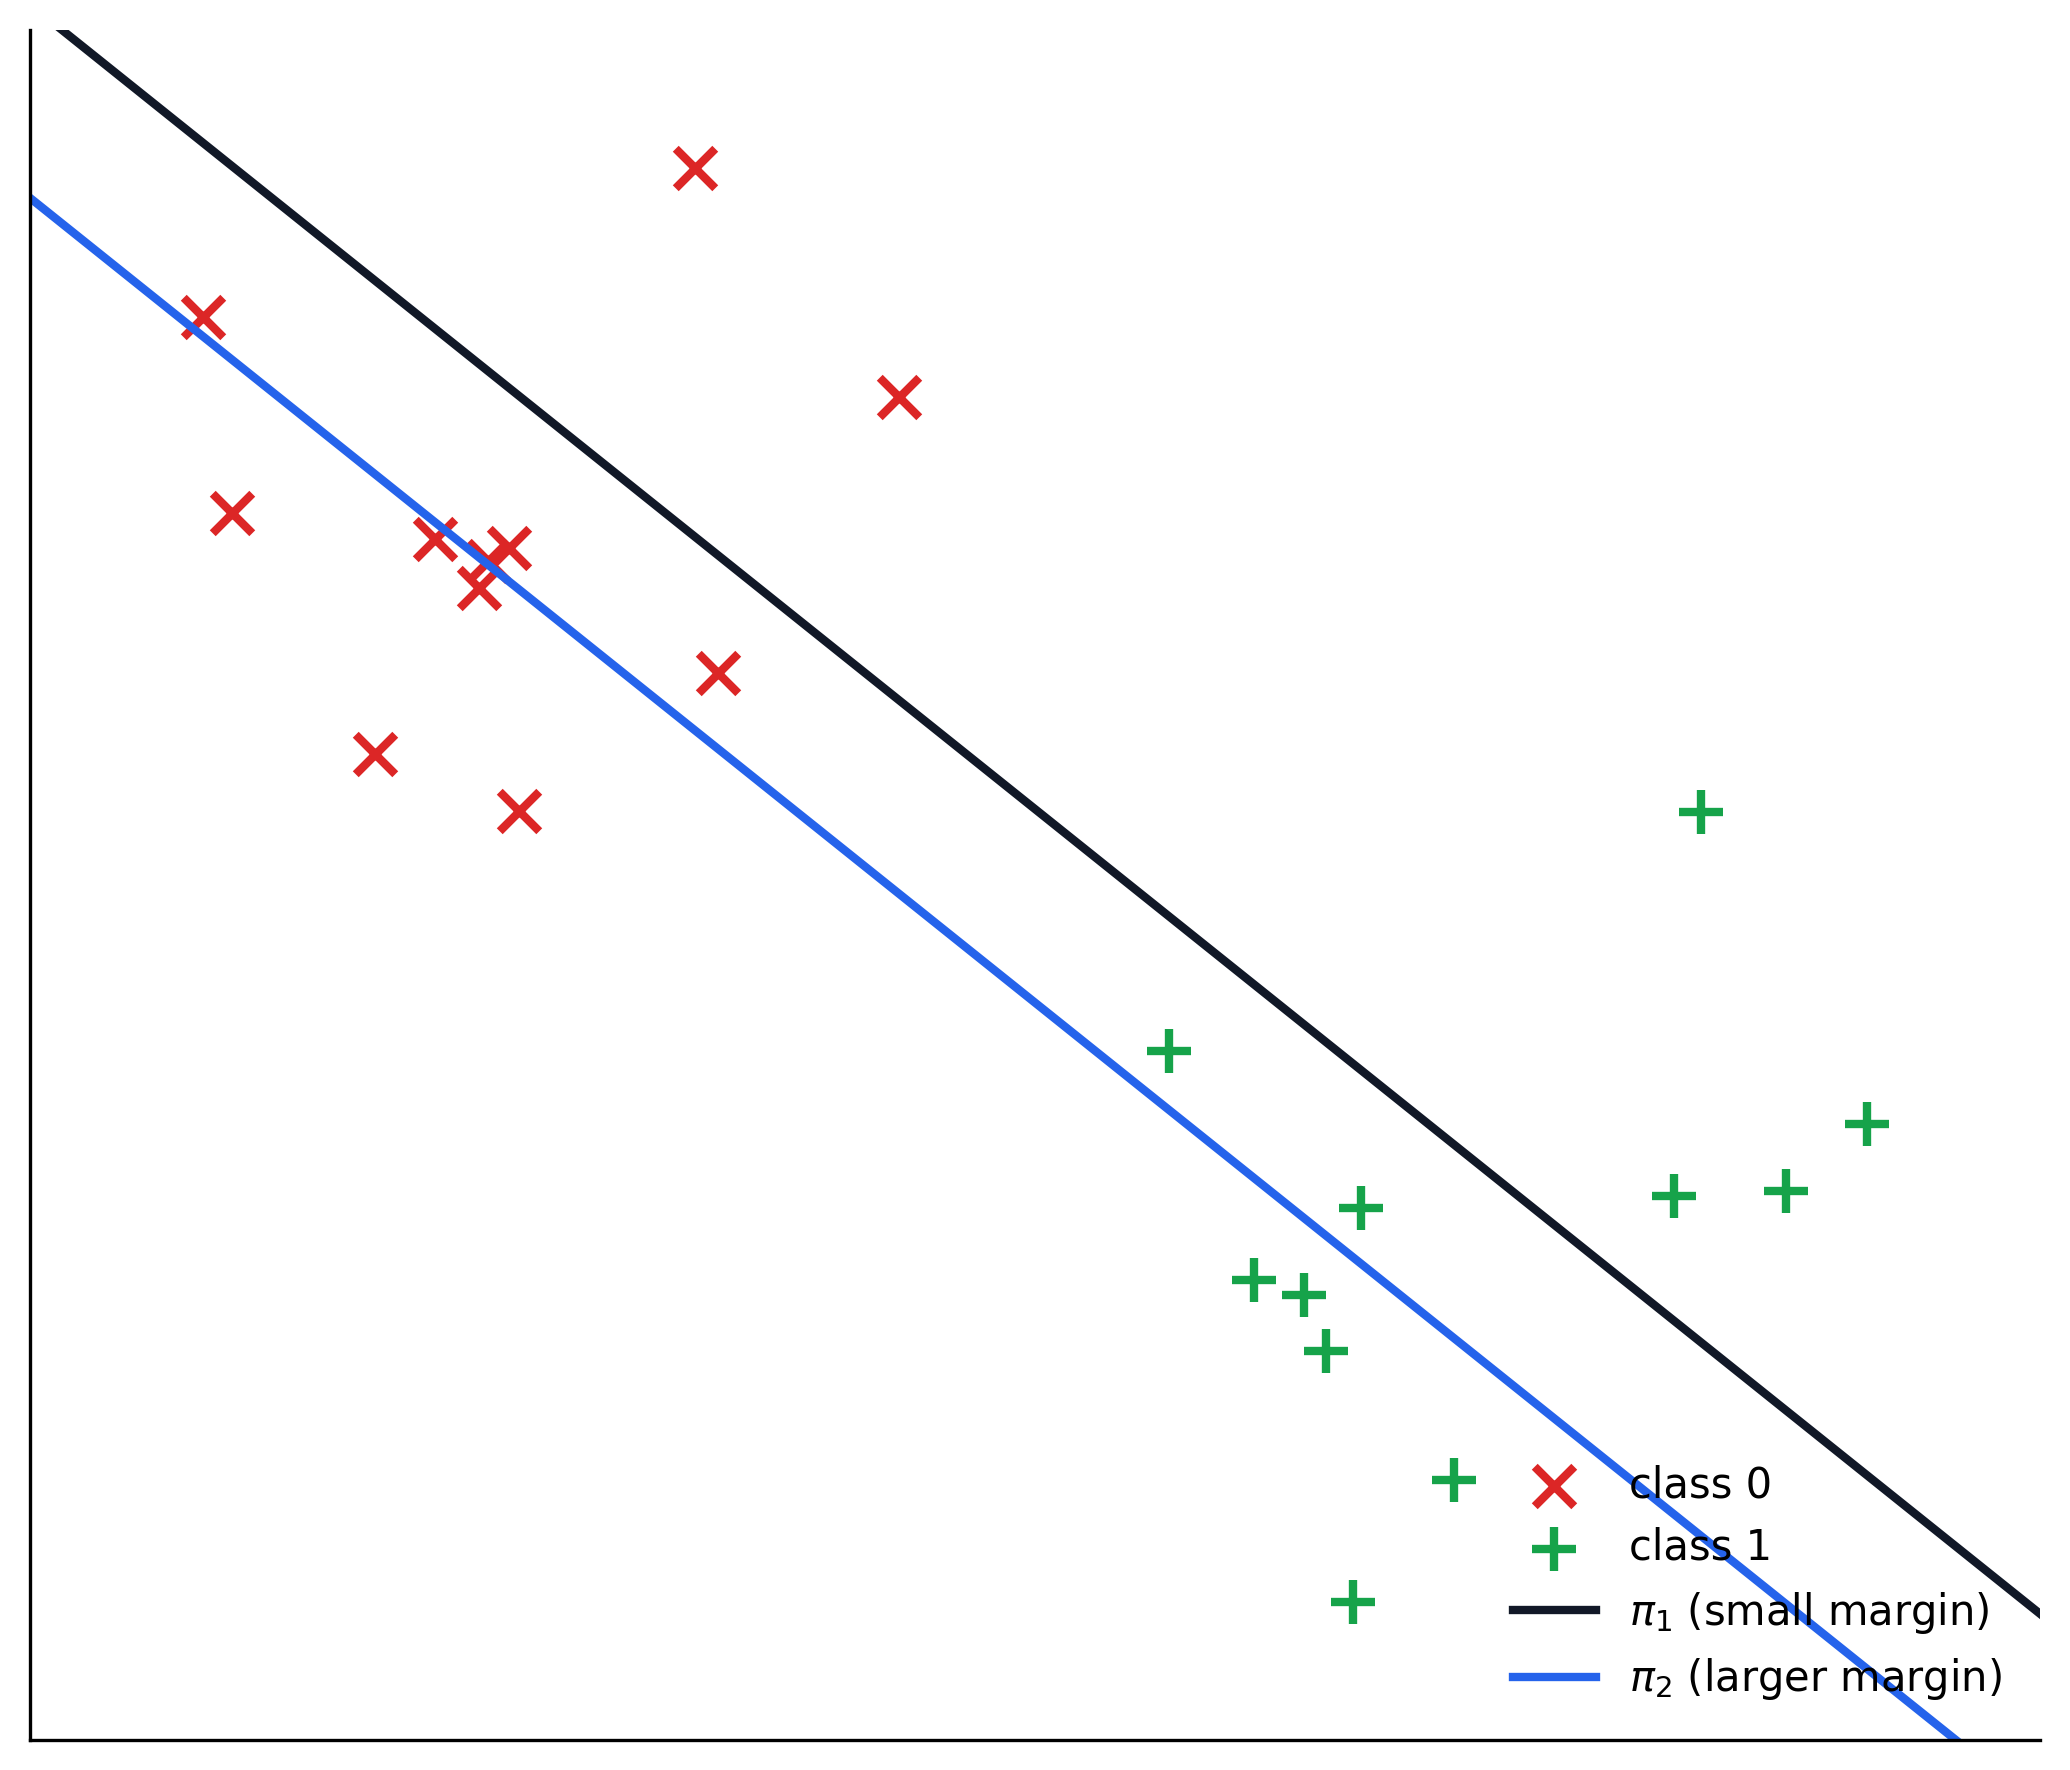
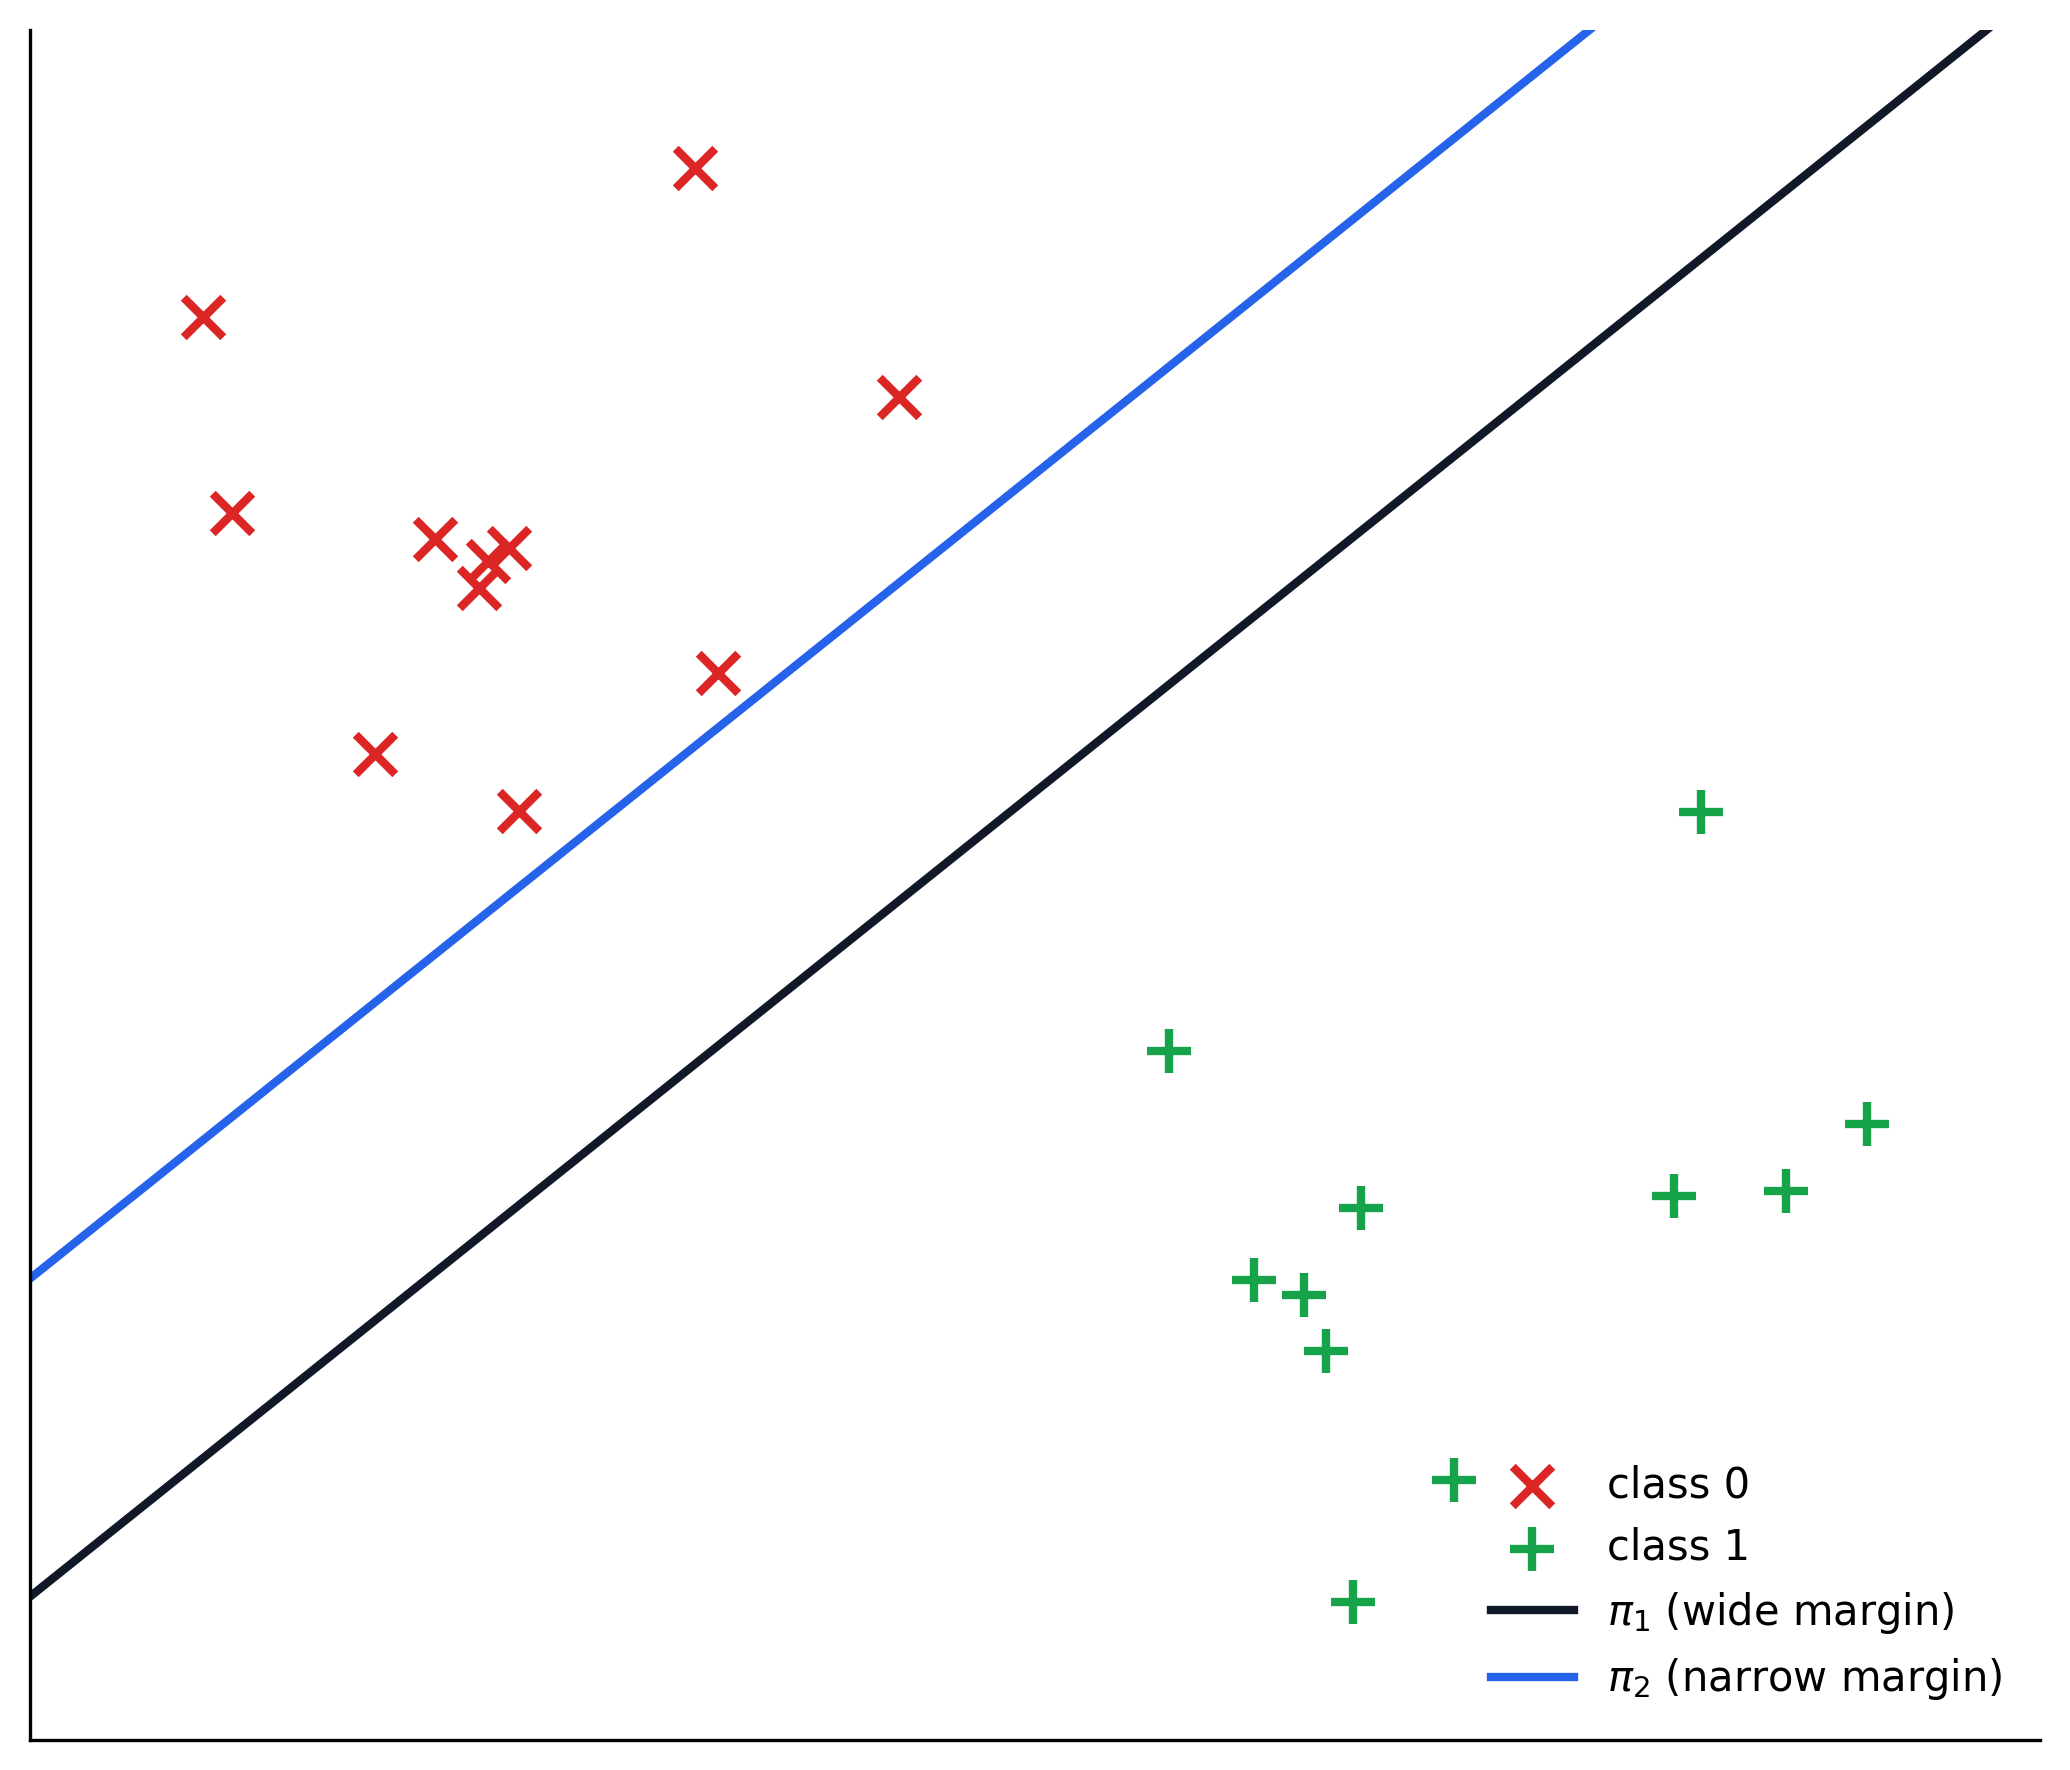
Ch.32: fix pi1/pi2 to match the video, add 3D margin-slab visual
Claude-Session: https://claude.ai/code/session_01GiY4RoBfeyCBPCCAvAFaVF

diff --git a/src/components/SvmMarginSlab3d.tsx b/src/components/SvmMarginSlab3d.tsx
@@ -1,0 +1,144 @@
+'use client';
+
+import { useEffect, useState } from 'react';
+import dynamic from 'next/dynamic';
+
+const Plot = dynamic(
+  () =>
+    Promise.all([import('react-plotly.js/factory'), import('plotly.js-dist-min')]).then(
+      ([{ default: createPlotlyComponent }, { default: Plotly }]) => createPlotlyComponent(Plotly)
+    ),
+  { ssr: false }
+);
+
+type Data = {
+  x: number[];
+  y: number[];
+  z: number[][];
+  margin_width: number;
+  points: { x: number[]; y: number[]; z: number[]; label: number[]; support: number[] };
+};
+
+const MOBILE_BREAKPOINT = 768;
+
+export default function SvmMarginSlab3d() {
+  const [isDesktop, setIsDesktop] = useState<boolean | null>(null);
+  const [isDark, setIsDark] = useState(false);
+  const [data, setData] = useState<Data | null>(null);
+
+  useEffect(() => {
+    const check = () => setIsDesktop(window.innerWidth >= MOBILE_BREAKPOINT);
+    check();
+    window.addEventListener('resize', check);
+    setIsDark(document.documentElement.classList.contains('dark'));
+    return () => window.removeEventListener('resize', check);
+  }, []);
+
+  useEffect(() => {
+    if (!isDesktop) return;
+    fetch('/data/ch32-svm-margin-3d.json')
+      .then((res) => res.json())
+      .then(setData);
+  }, [isDesktop]);
+
+  if (isDesktop === null) {
+    return <div className="h-32 w-full my-8" />;
+  }
+
+  if (!isDesktop) {
+    return (
+      <div className="not-prose my-8 rounded-2xl border border-black/5 dark:border-white/5 bg-black/[0.02] dark:bg-white/[0.02] p-6 text-center text-sm text-[var(--text-secondary)]">
+        This 3D visualization is disabled on smaller screens to keep the page fast. Move to a bigger screen (tablet or desktop) to see it.
+      </div>
+    );
+  }
+
+  if (!data) {
+    return <div className="animate-pulse h-[460px] w-full bg-black/5 dark:bg-white/5 rounded-2xl my-8" />;
+  }
+
+  const flat = (level: number, color: string, op: number) => ({
+    x: data.x,
+    y: data.y,
+    z: data.z.map((row) => row.map(() => level)),
+    type: 'surface' as const,
+    colorscale: [
+      [0, color],
+      [1, color],
+    ] as const,
+    opacity: op,
+    showscale: false,
+  });
+
+  const score = {
+    x: data.x,
+    y: data.y,
+    z: data.z,
+    type: 'surface' as const,
+    colorscale: [
+      [0, '#e6194b'],
+      [0.5, '#d9d9d9'],
+      [1, '#3cb44b'],
+    ] as const,
+    cmid: 0,
+    opacity: 0.9,
+    showscale: false,
+  };
+
+  const pick = (fn: (i: number) => boolean) => ({
+    x: data.points.x.filter((_, i) => fn(i)),
+    y: data.points.y.filter((_, i) => fn(i)),
+    z: data.points.z.filter((_, i) => fn(i)),
+  });
+
+  const regular = (cls: number, color: string) => {
+    const p = pick((i) => data.points.label[i] === cls && data.points.support[i] === 0);
+    return {
+      ...p,
+      mode: 'markers' as const,
+      type: 'scatter3d' as const,
+      marker: { size: 3, color, opacity: 0.85 },
+      name: cls === 1 ? 'class 1' : 'class 0',
+    };
+  };
+
+  const svs = pick((i) => data.points.support[i] === 1);
+  const supportTrace = {
+    ...svs,
+    mode: 'markers' as const,
+    type: 'scatter3d' as const,
+    marker: { size: 6, color: '#f59e0b', symbol: 'diamond' as const, line: { color: isDark ? '#fff' : '#000', width: 1 } },
+    name: 'support vectors',
+  };
+
+  return (
+    <div className="not-prose my-8">
+      <div className="rounded-2xl border border-black/5 dark:border-white/5 bg-white dark:bg-black/20 overflow-hidden">
+        <Plot
+          data={[flat(0, '#9ca3af', 0.15), flat(1, '#3cb44b', 0.12), flat(-1, '#e6194b', 0.12), score, regular(1, '#3cb44b'), regular(0, '#e6194b'), supportTrace]}
+          layout={{
+            autosize: true,
+            height: 460,
+            margin: { l: 0, r: 0, t: 10, b: 0 },
+            scene: {
+              xaxis: { title: { text: 'x₁' } },
+              yaxis: { title: { text: 'x₂' } },
+              zaxis: { title: { text: 'score  wᵀx + b' } },
+              camera: { eye: { x: 2.0, y: -2.0, z: 0.7 } },
+              aspectratio: { x: 1.3, y: 1.3, z: 0.7 },
+            },
+            showlegend: false,
+            paper_bgcolor: 'rgba(0,0,0,0)',
+            font: { color: isDark ? '#e5e5e5' : '#171717' },
+          }}
+          config={{ responsive: true, displaylogo: false }}
+          style={{ width: '100%' }}
+          useResizeHandler
+        />
+      </div>
+      <p className="text-center text-xs text-[var(--text-secondary)] mt-3">
+        The score <code>wᵀx + b</code> is a tilted plane; the boundary is where it meets the grey <code>score = 0</code> sheet, and the two faint sheets at <code>score = +1</code> and <code>score = -1</code> are the margin edges. Every point sits at its own score height. The support vectors (amber) are exactly the points resting on the <code>±1</code> sheets, and SVM tilts the plane to make the gap between those sheets, here {data.margin_width.toFixed(2)} wide, as large as possible.
+      </p>
+    </div>
+  );
+}

diff --git a/src/app/[series]/[slug]/page.tsx b/src/app/[series]/[slug]/page.tsx
@@ -53,6 +53,7 @@ import SoftmaxSurfaces3d from '../../../components/SoftmaxSurfaces3d';
 import PolyLogisticScoreSurface3d from '../../../components/PolyLogisticScoreSurface3d';
 import CProbabilitySurface3d from '../../../components/CProbabilitySurface3d';
 import KnnNeighbors3d from '../../../components/KnnNeighbors3d';
+import SvmMarginSlab3d from '../../../components/SvmMarginSlab3d';
 import RidgeLambdaExplorer from '../../../components/RidgeLambdaExplorer';
 import DecisionTreeHyperparameterExplorer from '../../../components/DecisionTreeHyperparameterExplorer';
 import RegressionTreeExplorer from '../../../components/RegressionTreeExplorer';
@@ -209,6 +210,7 @@ export default async function PostPage({
             PolyLogisticScoreSurface3d,
             CProbabilitySurface3d,
             KnnNeighbors3d,
+            SvmMarginSlab3d,
             RidgeLambdaExplorer,
             DecisionTreeHyperparameterExplorer,
             RegressionTreeExplorer,

diff --git a/scripts/gen_ch32_svm_margin.py b/scripts/gen_ch32_svm_margin.py
@@ -1,11 +1,11 @@
 """Generate the margin-comparison and max-margin-hyperplane charts for Ch.32.
 
-No usable transcript/notebook existed for this video (the auto-transcript was
-too corrupted to use); the post is instead based on the user's own notes plus
-a whiteboard screenshot from the video. This script builds a real, from-first-
-principles illustration of the same concept the whiteboard sketch showed: two
-arbitrary separating lines with different margins, then the actual maximum-
-margin hyperplane found by fitting a linear SVM.
+There is no CampusX companion notebook for this SVM-intuition video; the video
+is a whiteboard geometry walkthrough. This script builds a real, from-first-
+principles illustration of the same concept: two arbitrary separating lines
+with different margins (pi_1 wide, pi_2 narrow, matching the video's "pi1 is
+the better hyperplane"), then the actual maximum-margin hyperplane found by
+fitting a linear SVM.
 
 Run: python3 scripts/gen_ch32_svm_margin.py
 Writes: public/images/ch32-svm-margin-comparison.png
@@ -25,13 +25,18 @@ ax.scatter(X[y == 0, 0], X[y == 0, 1], marker="x", color="#dc2626", s=90, linewi
 ax.scatter(X[y == 1, 0], X[y == 1, 1], marker="+", color="#16a34a", s=110, linewidths=2, label="class 1")
 
 x_line = np.linspace(X[:, 0].min() - 1, X[:, 0].max() + 1, 100)
-# pi_1: hugs close to class 1's nearest points (small margin, still a valid separator)
-y_pi1 = -1.0 * x_line + 0.2
-# pi_2: sits centered between both clusters (larger margin)
-y_pi2 = -1.0 * x_line - 1.2
+# The clusters separate along the x - y direction (line family y = x - c, with
+# a valid separator for c between the red and green edges). Both lines below
+# classify every point correctly.
+# pi_1: c near the middle of the gap -- roughly equidistant, the wide-margin
+#       line SVM would prefer ("pi1 is the better hyperplane" in the video).
+y_pi1 = x_line + 0.1
+# pi_2: c near the red cluster's edge -- still a valid separator, but with
+#       almost no room on the red side.
+y_pi2 = x_line + 2.4
 
-ax.plot(x_line, y_pi1, color="#111827", linewidth=2, label=r"$\pi_1$ (small margin)")
-ax.plot(x_line, y_pi2, color="#2563eb", linewidth=2, label=r"$\pi_2$ (larger margin)")
+ax.plot(x_line, y_pi1, color="#111827", linewidth=2, label=r"$\pi_1$ (wide margin)")
+ax.plot(x_line, y_pi2, color="#2563eb", linewidth=2, label=r"$\pi_2$ (narrow margin)")
 ax.set_xlim(X[:, 0].min() - 1, X[:, 0].max() + 1)
 ax.set_ylim(X[:, 1].min() - 1, X[:, 1].max() + 1)
 ax.legend(frameon=False, loc="lower right")

diff --git a/scripts/gen_ch32_svm_margin_3d.py b/scripts/gen_ch32_svm_margin_3d.py
@@ -1,0 +1,46 @@
+"""Ch.32: the SVM decision function and its margin slab in 3D.
+
+Same make_blobs data and linear SVC as the post's charts. The score
+z = w.x + b is a tilted plane over the feature space. The boundary is where it
+crosses z = 0; the two margin hyperplanes are z = +1 and z = -1. Every point is
+placed at its own score height, so the support vectors are exactly the points
+sitting on the z = +/-1 planes.
+"""
+import json
+from pathlib import Path
+
+import numpy as np
+from sklearn.datasets import make_blobs
+from sklearn.svm import SVC
+
+X, y = make_blobs(n_samples=22, centers=[(-3, 2.5), (3, -2.5)], cluster_std=1.3, random_state=3)
+clf = SVC(kernel="linear", C=1000).fit(X, y)
+w = clf.coef_[0]
+b = float(clf.intercept_[0])
+
+pad = 1.2
+gx = np.linspace(X[:, 0].min() - pad, X[:, 0].max() + pad, 40)
+gy = np.linspace(X[:, 1].min() - pad, X[:, 1].max() + pad, 40)
+mx, my = np.meshgrid(gx, gy)
+z = w[0] * mx + w[1] * my + b
+
+scores = w[0] * X[:, 0] + w[1] * X[:, 1] + b
+support = set(int(i) for i in clf.support_)
+
+out = {
+    "x": [float(v) for v in gx],
+    "y": [float(v) for v in gy],
+    "z": [[float(v) for v in row] for row in z],
+    "margin_width": float(2.0 / np.linalg.norm(w)),
+    "points": {
+        "x": [float(v) for v in X[:, 0]],
+        "y": [float(v) for v in X[:, 1]],
+        "z": [float(v) for v in scores],
+        "label": [int(v) for v in y],
+        "support": [1 if i in support else 0 for i in range(len(X))],
+    },
+}
+dst = Path(__file__).resolve().parent.parent / "public" / "data" / "ch32-svm-margin-3d.json"
+dst.write_text(json.dumps(out))
+print("margin width", round(out["margin_width"], 3), "support vectors", sorted(support))
+print("wrote", dst)
